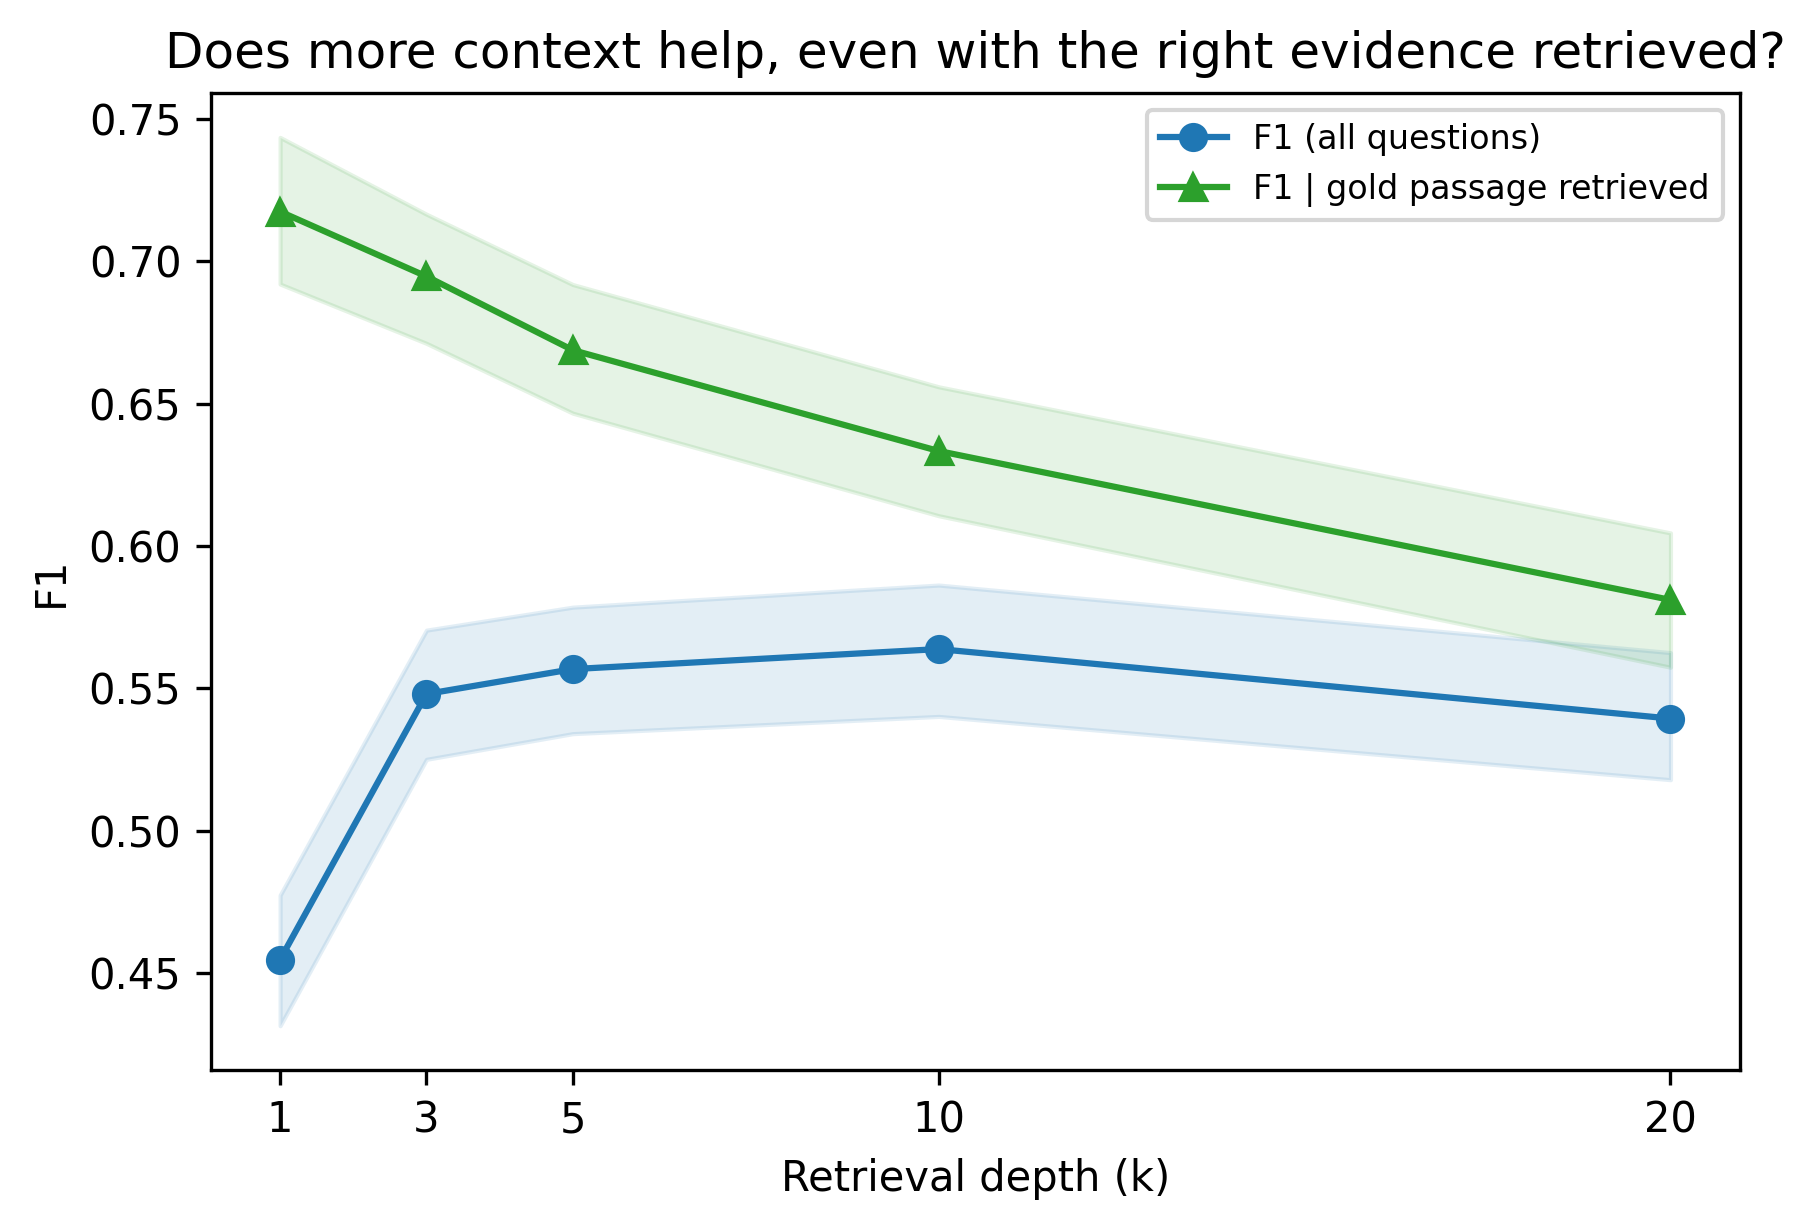
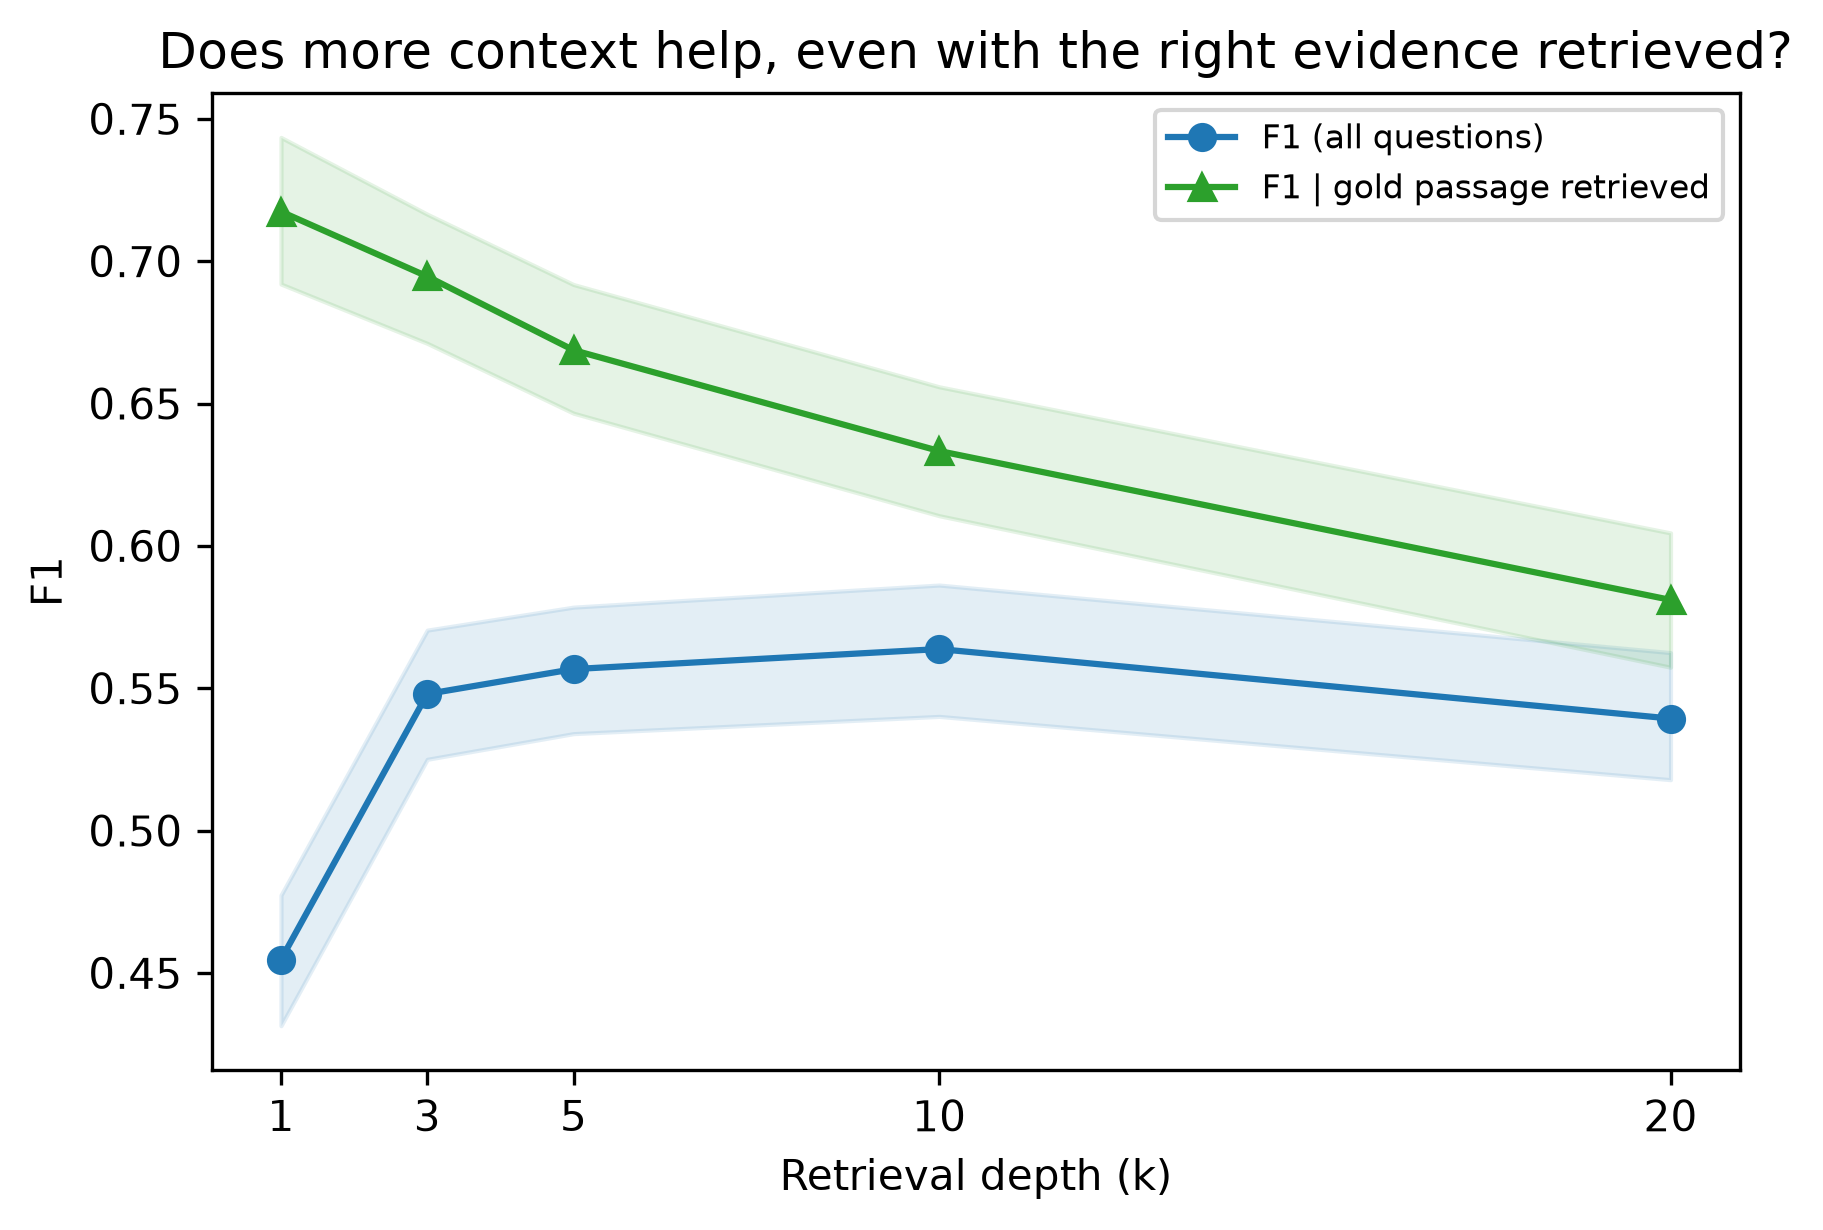
Changes: - Add results and limitations to README.md - Add documentations to every python function - Add final figure plots

diff --git a/src/evaluation/make_plots.py b/src/evaluation/make_plots.py
@@ -12,13 +12,23 @@ log = setup_logger("make_plots")
 
 
 def load_all_k(results_dir: str, k_values: list[int]) -> pd.DataFrame:
-    """Concatenate per-k result files (as written by generate.py) into one long-format dataframe."""
+    """Concatenate per-k generation result files into one long-format dataframe."""
     frames = [load_results_for_k(results_dir, k) for k in k_values]
     return pd.concat(frames, ignore_index=True)
 
 
 def bootstrap_ci(values: np.ndarray, n_boot: int, seed: int, alpha: float = 0.05):
-    """Percentile bootstrap CI for the mean of `values`."""
+    """Return the percentile bootstrap confidence interval for the sample mean.
+
+    Args:
+        values: Observed metric values.
+        n_boot: Number of bootstrap resamples.
+        seed: Seed used to make resampling reproducible.
+        alpha: Total probability excluded from the interval's tails.
+
+    Returns:
+        The lower and upper confidence bounds, or ``(nan, nan)`` for no values.
+    """
     if len(values) == 0:
         return (np.nan, np.nan)
     rng = np.random.default_rng(seed)
@@ -33,18 +43,23 @@ def bootstrap_ci(values: np.ndarray, n_boot: int, seed: int, alpha: float = 0.05
 
 
 def build_plot_data(df: pd.DataFrame, k_values: list[int], n_boot: int, seed: int) -> pd.DataFrame:
-    """Point estimates + bootstrap CIs per k, using this project's fixed column names
-    (f1, gold_retrieved) directly rather than remapping — generate.py's schema is the
-    only schema this script needs to support."""
+    """Calculate metric means and bootstrap intervals for each retrieval depth.
+
+    Uses the result schema produced by ``generate.py`` and includes overall F1,
+    exact match, Recall@k, and F1 conditional on retrieving the gold passage.
+    """
     records = []
     for k in k_values:
         g = df[df["k"] == k]
         f1_vals = g["f1"].to_numpy(dtype=float)
+        em_vals = g["exact_match"].to_numpy(dtype=float)
         retrieved_mask = g["gold_retrieved"].astype(bool)
 
         f1_mean = f1_vals.mean()
+        em_mean = em_vals.mean()
         recall_at_k = retrieved_mask.mean()
         f1_lo, f1_hi = bootstrap_ci(f1_vals, n_boot=n_boot, seed=seed)
+        em_lo, em_hi = bootstrap_ci(em_vals, n_boot=n_boot, seed=seed)
 
         cond_f1_vals = g.loc[retrieved_mask, "f1"].to_numpy(dtype=float)
         cond_f1_mean = cond_f1_vals.mean() if len(cond_f1_vals) else np.nan
@@ -56,6 +71,9 @@ def build_plot_data(df: pd.DataFrame, k_values: list[int], n_boot: int, seed: in
             "f1": f1_mean,
             "f1_ci_lo": f1_lo,
             "f1_ci_hi": f1_hi,
+            "em": em_mean,
+            "em_ci_lo": em_lo,
+            "em_ci_hi": em_hi,
             "conditional_f1_given_retrieved": cond_f1_mean,
             "conditional_f1_ci_lo": cond_f1_lo,
             "conditional_f1_ci_hi": cond_f1_hi,
@@ -64,17 +82,21 @@ def build_plot_data(df: pd.DataFrame, k_values: list[int], n_boot: int, seed: in
 
 
 def plot_recall_f1_vs_k(summary: pd.DataFrame, outpath: str):
+    """Plot Recall@k, F1, and exact match against retrieval depth and save the figure."""
     fig, ax1 = plt.subplots(figsize=(6, 4.2), dpi=300)
 
     color_f1 = "#1f77b4"
+    color_em = "#2ca02c"
     color_recall = "#d62728"
 
     ax1.set_xlabel("Retrieval depth (k)")
-    ax1.set_ylabel("Answer F1", color=color_f1)
-    ax1.plot(summary["k"], summary["f1"], marker="o", color=color_f1, label="Answer F1")
+    ax1.set_ylabel("Answer score (F1 / EM)")
+    ax1.plot(summary["k"], summary["f1"], marker="o", color=color_f1, label="F1")
     ax1.fill_between(summary["k"], summary["f1_ci_lo"], summary["f1_ci_hi"],
                      color=color_f1, alpha=0.15)
-    ax1.tick_params(axis="y", labelcolor=color_f1)
+    ax1.plot(summary["k"], summary["em"], marker="^", color=color_em, label="EM")
+    ax1.fill_between(summary["k"], summary["em_ci_lo"], summary["em_ci_hi"],
+                     color=color_em, alpha=0.15)
     ax1.set_xticks(summary["k"])
 
     ax2 = ax1.twinx()
@@ -95,6 +117,7 @@ def plot_recall_f1_vs_k(summary: pd.DataFrame, outpath: str):
 
 
 def plot_conditional_f1_vs_k(summary: pd.DataFrame, outpath: str):
+    """Plot overall and gold-retrieval-conditional F1 against depth and save the figure."""
     fig, ax = plt.subplots(figsize=(6, 4.2), dpi=300)
 
     ax.plot(summary["k"], summary["f1"], marker="o", label="F1 (all questions)",
@@ -119,6 +142,7 @@ def plot_conditional_f1_vs_k(summary: pd.DataFrame, outpath: str):
 
 
 def main():
+    """Load configured result files, compute plot data, and save both figures."""
     cfg = load_config()
 
     outdir = cfg["paths"]["main_results_dir"]

diff --git a/src/generation/model_backend.py b/src/generation/model_backend.py
@@ -5,7 +5,10 @@ from transformers import AutoModelForCausalLM, AutoTokenizer, BitsAndBytesConfig
 
 
 class HFBnbBackend:
+    """Generate answers using a Hugging Face causal LM loaded in 4-bit NF4."""
+
     def __init__(self, model_name: str, generation_config: dict):
+        """Load the tokenizer and quantized model with the supplied generation settings."""
         print(f"Loading {model_name} in 4-bit (nf4) via bitsandbytes...")
         bnb_config = BitsAndBytesConfig(
             load_in_4bit=True,
@@ -25,10 +28,11 @@ class HFBnbBackend:
         self.generation_config = generation_config
 
     def count_tokens(self, text: str) -> int:
+        """Return the number of model tokens in ``text`` without special tokens."""
         return len(self.tokenizer.encode(text, add_special_tokens=False))
 
     def generate(self, prompt: str) -> tuple[str, float]:
-        """Returns (generated_text, generation_time_seconds)."""
+        """Generate one answer and return its text and elapsed generation time in seconds."""
         messages = [{"role": "user", "content": prompt}]
         inputs = self.tokenizer.apply_chat_template(
             messages,
@@ -100,7 +104,10 @@ class HFBnbBackend:
 
 
 class LlamaCppGGUFBackend:
+    """Placeholder for the not-yet-implemented llama.cpp GGUF generation backend."""
+
     def __init__(self, model_name: str, generation_config: dict):
+        """Raise ``NotImplementedError`` because this backend is not implemented."""
         raise NotImplementedError(
             "llama_cpp_gguf backend not yet implemented. To be filled in when "
             "moving to the CPU-only path — same generate() interface as "
@@ -110,6 +117,7 @@ class LlamaCppGGUFBackend:
 
 
 def load_backend(cfg: dict):
+    """Instantiate the generation backend selected by the configuration."""
     backend_name = cfg["generation"]["backend"]
     model_name = cfg["generation"]["model"][backend_name]
     generation_config = cfg["generation"]["generation_config"]

diff --git a/src/retrieval/retrieve.py b/src/retrieval/retrieve.py
@@ -12,6 +12,7 @@ from utils.logger import setup_logger
 log = setup_logger("retrieve")
 
 def load_index_and_order(cfg: dict):
+    """Load the FAISS index and matching position-to-passage-ID mapping."""
     index_path = get_project_root() / cfg["corpus"]["paths"]["faiss_index"]
     order_path = Path(index_path).with_suffix(".order.parquet")
 
@@ -23,6 +24,7 @@ def load_index_and_order(cfg: dict):
 
 
 def embed_questions(questions_df: pd.DataFrame, model_name: str) -> np.ndarray:
+    """Encode question texts as L2-normalized float32 query embeddings."""
     model = SentenceTransformer(model_name)
     log.info(f"Encoding {len(questions_df)} questions with {model_name}...")
     embeddings = model.encode(
@@ -35,11 +37,13 @@ def embed_questions(questions_df: pd.DataFrame, model_name: str) -> np.ndarray:
 
 
 def retrieve_top20(index, query_embeddings: np.ndarray, top_k: int = 20):
+    """Search the index and return similarity scores and positions for each query."""
     scores, positions = index.search(query_embeddings, top_k)
     return scores, positions
 
 
 def build_retrieval_records(questions_df, scores, positions, position_to_passage_id):
+    """Create per-question retrieval records, including each gold passage's rank."""
     records = []
     for i, row in questions_df.reset_index(drop=True).iterrows():
         retrieved_ids = [position_to_passage_id[p] for p in positions[i]]
@@ -59,6 +63,7 @@ def build_retrieval_records(questions_df, scores, positions, position_to_passage
 
 
 def compute_recall_at_k(records, k_values):
+    """Calculate the fraction of records with a gold passage in the first ``k`` results."""
     n = len(records)
     recall = {}
     for k in k_values:
@@ -68,6 +73,7 @@ def compute_recall_at_k(records, k_values):
 
 
 def main():
+    """Run configured retrieval, save per-question results, and report Recall@k."""
     cfg = load_config()
 
     questions_df = pd.read_parquet(get_project_root() / cfg["corpus"]["questions_path"])

diff --git a/src/evaluation/metrics.py b/src/evaluation/metrics.py
@@ -4,6 +4,7 @@ from evaluation.normalize import normalize_answer
 
 
 def _f1_single(prediction: str, gold: str) -> float:
+    """Compute token-overlap F1 for one prediction and one normalized reference."""
     pred_tokens = normalize_answer(prediction).split()
     gold_tokens = normalize_answer(gold).split()
 
@@ -22,15 +23,18 @@ def _f1_single(prediction: str, gold: str) -> float:
 
 
 def _em_single(prediction: str, gold: str) -> int:
+    """Return 1 when normalized prediction and reference strings match exactly."""
     return int(normalize_answer(prediction) == normalize_answer(gold))
 
 
 def compute_em_f1(prediction: str, gold_answers: list[str]) -> tuple[int, float]:
     """
-    prediction: model's (post-processed) generated answer string
-    gold_answers: list of acceptable gold answer strings for this question
+    Args:
+        prediction: Model's post-processed generated answer.
+        gold_answers: Acceptable reference answers for the question.
 
-    Returns (exact_match, f1), each the max score over all gold answers.
+    Returns:
+        The maximum exact-match and token-F1 scores over the references.
     """
     if not gold_answers:
         # SQuAD v1.1 train questions always have >=1 gold answer; guard anyway
@@ -43,9 +47,8 @@ def compute_em_f1(prediction: str, gold_answers: list[str]) -> tuple[int, float]
 
 def postprocess_generation(raw_text: str) -> str:
     """
-    Light cleanup applied identically across all k-conditions before scoring.
-    Log raw vs. post-processed separately (see generate.py) so verbosity
-    trends across k can still be inspected.
+    Removes surrounding whitespace and quotes and an optional ``Answer:``
+    prefix. Apply identically across retrieval-depth conditions before scoring.
     """
     text = raw_text.strip()
     if text.lower().startswith("answer:"):

diff --git a/src/generation/generate.py b/src/generation/generate.py
@@ -9,7 +9,7 @@ from utils.logger import setup_logger
 log = setup_logger("generate")
 
 def load_retrieval_records(path: str | Path) -> dict:
-    """question_id -> retrieval record dict."""
+    """Read JSONL retrieval records into a mapping keyed by question ID."""
     records = {}
     with open(path, "r") as f:
         for line in f:
@@ -19,7 +19,7 @@ def load_retrieval_records(path: str | Path) -> dict:
 
 
 def load_already_done(out_path: str | Path) -> set:
-    """question_ids already written to out_path, so a resumed run skips them."""
+    """Return question IDs already present in an output JSONL file, if it exists."""
     done = set()
     if Path(out_path).exists():
         with open(out_path, "r") as f:
@@ -30,6 +30,7 @@ def load_already_done(out_path: str | Path) -> set:
 
 
 def chunked(items: list, size: int):
+    """Yield consecutive slices of ``items`` containing at most ``size`` elements."""
     for i in range(0, len(items), size):
         yield items[i:i + size]
 
@@ -41,6 +42,11 @@ def run_generation(
     question_ids: list[str],
     out_path: str,
 ):
+    """Generate and score answers for ``question_ids`` at retrieval depth ``k``.
+
+    Existing output records are preserved and skipped, allowing interrupted runs
+    to resume. Newly completed question records are appended to ``out_path``.
+    """
     questions_df = pd.read_parquet(cfg["corpus"]["questions_path"]).set_index(
         "question_id", drop=False
     )

diff --git a/src/retrieval/sample_questions.py b/src/retrieval/sample_questions.py
@@ -9,6 +9,7 @@ from utils.logger import setup_logger
 log = setup_logger("sample_questions")
 
 def sample_questions(cfg: dict) -> pd.DataFrame:
+    """Sample a reproducible set of questions and their gold passage identifiers."""
     ds = load_dataset("rajpurkar/squad", split=cfg["dataset"]["hf_split"])
     ds = ds.shuffle(seed=cfg["sampling"]["seed"])
     n = cfg["sampling"]["n_questions"]
@@ -30,7 +31,7 @@ def sample_questions(cfg: dict) -> pd.DataFrame:
 
 
 def verify_gold_linkage(questions_df: pd.DataFrame, corpus_path: str):
-    """Every gold_passage_id must exist in the corpus, or Recall@k is meaningless."""
+    """Raise ``ValueError`` if any question's gold passage is absent from the corpus."""
     corpus_df = pd.read_parquet(corpus_path)
     corpus_ids = set(corpus_df["passage_id"])
     missing = ~questions_df["gold_passage_id"].isin(corpus_ids)
@@ -44,6 +45,7 @@ def verify_gold_linkage(questions_df: pd.DataFrame, corpus_path: str):
 
 
 def main():
+    """Sample questions, verify their corpus linkage, and save them as Parquet."""
     cfg = load_config()
 
     out_path = get_project_root() / cfg["corpus"]["questions_path"]

diff --git a/src/retrieval/embed_corpus.py b/src/retrieval/embed_corpus.py
@@ -12,6 +12,7 @@ from utils.logger import setup_logger
 log = setup_logger("embed_corpus")
 
 def embed_passages(df: pd.DataFrame, model_name: str, batch_size: int) -> np.ndarray:
+    """Encode passage texts as L2-normalized float32 embeddings in dataframe order."""
     model = SentenceTransformer(model_name)
     log.info(f"Encoding {len(df)} passages with {model_name} (batch_size={batch_size})...")
     embeddings = model.encode(
@@ -25,6 +26,7 @@ def embed_passages(df: pd.DataFrame, model_name: str, batch_size: int) -> np.nda
 
 
 def build_faiss_index(embeddings: np.ndarray) -> faiss.Index:
+    """Build an inner-product FAISS index from the supplied passage embeddings."""
     dim = embeddings.shape[1]
     index = faiss.IndexFlatIP(dim)
     index.add(embeddings)
@@ -33,6 +35,7 @@ def build_faiss_index(embeddings: np.ndarray) -> faiss.Index:
 
 
 def main():
+    """Embed the configured corpus and persist its FAISS index and passage order."""
     cfg = load_config()
     corpus_path = get_project_root() / cfg["corpus"]["paths"]["passages"]
     index_path = get_project_root() / cfg["corpus"]["paths"]["faiss_index"]

diff --git a/src/evaluation/aggregate.py b/src/evaluation/aggregate.py
@@ -10,12 +10,14 @@ log = setup_logger("aggregate")
 
 
 def load_results_for_k(results_dir: str, k: int) -> pd.DataFrame:
+    """Load the JSONL generation results for one retrieval depth into a dataframe."""
     path = Path(results_dir) / f"results_k{k}.jsonl"
     rows = [json.loads(line) for line in open(path, "r")]
     return pd.DataFrame(rows)
 
 
 def summarize_results(cfg: dict, results_dir: str) -> pd.DataFrame:
+    """Aggregate answer, retrieval, and context-length metrics for each configured k."""
     rows = []
     for k in cfg["retrieval"]["k_values"]:
         df = load_results_for_k(results_dir, k)
@@ -45,6 +47,7 @@ def summarize_results(cfg: dict, results_dir: str) -> pd.DataFrame:
 
 
 def main():
+    """Summarize configured result files and write the summary table as CSV."""
     cfg = load_config()
     summary = summarize_results(cfg, results_dir=cfg["paths"]["main_results_dir"])
     log.info(summary.to_string(index=False))

diff --git a/src/utils/logger.py b/src/utils/logger.py
@@ -11,13 +11,15 @@ ERROR = logging.ERROR
 def setup_logger(name: str, log_level=logging.INFO) -> logging.Logger:
     """
     Configure and return a logger instance with both file and console handlers.
-    
+
+    Reuses existing handlers if this logger has already been configured.
+
     Args:
-        name: Logger name (typically __name__)
-        log_level: Logging level (default: INFO)
-    
+        name: Logger name, typically the calling module's name.
+        log_level: Minimum level emitted by the handlers.
+
     Returns:
-        Configured logger instance
+        The configured logger.
     """
     logger = logging.getLogger(name)
 

diff --git a/src/retrieval/build_corpus.py b/src/retrieval/build_corpus.py
@@ -8,6 +8,7 @@ log = setup_logger("build_corpus")
 
 
 def build_corpus(cfg: dict):
+    """Load the configured SQuAD split and return its unique contexts as a dataframe."""
     log.info("Building corpus")
     log.info("Loading dataset")
 
@@ -33,6 +34,7 @@ def build_corpus(cfg: dict):
 
 
 def main():
+    """Build the passage corpus and save it to the configured Parquet path."""
     cfg = load_config()
 
     out_path = get_project_root() / cfg["corpus"]["paths"]["passages"]

diff --git a/src/generation/prompt_template.py b/src/generation/prompt_template.py
@@ -28,6 +28,6 @@ def build_context(passage_texts: list[str]) -> str:
 
 
 def build_prompt(question: str, passage_texts: list) -> str:
+    """Insert the question and retrieved passages into the shared answer prompt."""
     context = build_context(passage_texts)
     return TEMPLATE.format(retrieved_context=context, question=question)
-

diff --git a/src/experiments/run_pilot.py b/src/experiments/run_pilot.py
@@ -13,6 +13,7 @@ from utils.logger import setup_logger
 log = setup_logger("run_pilot")
 
 def main():
+    """Run generation on the configured pilot subset and report timing and metrics."""
     cfg = load_config()
 
     questions_df = pd.read_parquet(cfg["corpus"]["questions_path"])
